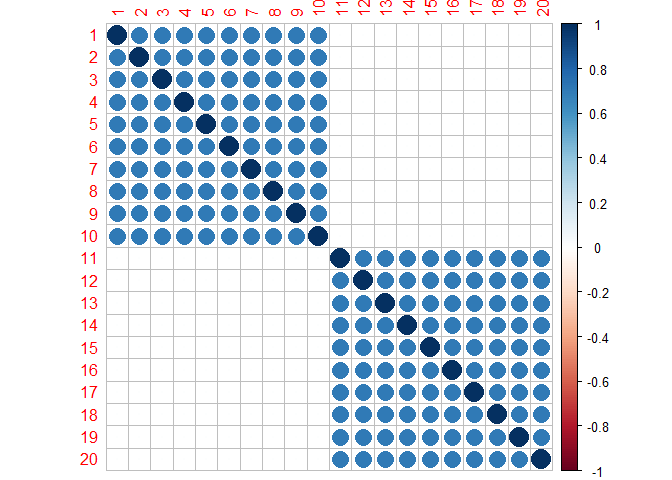
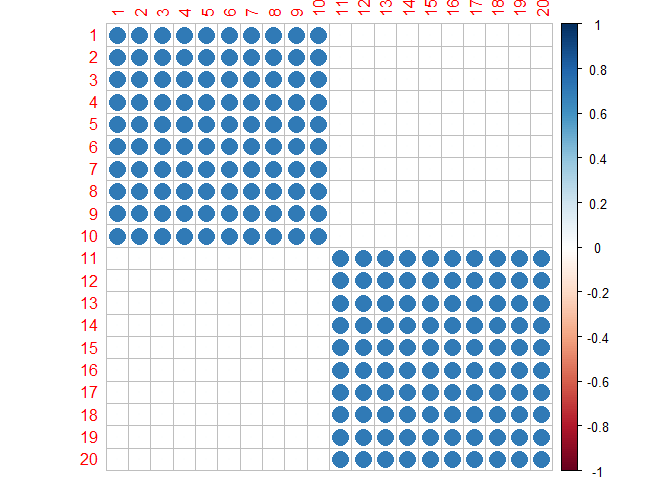
CRAN changes

diff --git a/README.md b/README.md
@@ -51,7 +51,12 @@ library(MASS)
 library(psych)
 
 # block diagonal
-cors <- IRCcheck:::irc_met
+cors <- irc_met <- rbind(
+  cbind(matrix(.7, 10,10), matrix(0, 10,10)),
+  cbind(matrix(0, 10,10), matrix(0.7, 10,10))
+)
+diag(irc_met) <- 1
+
 
 # visualize
 # note: first 10 are 'active'
